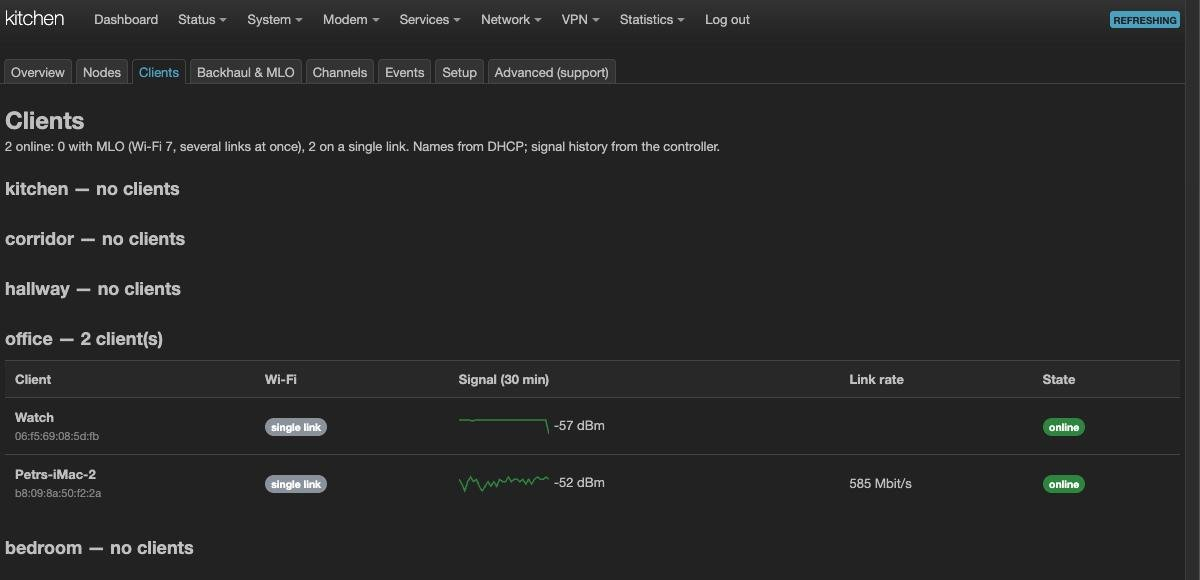
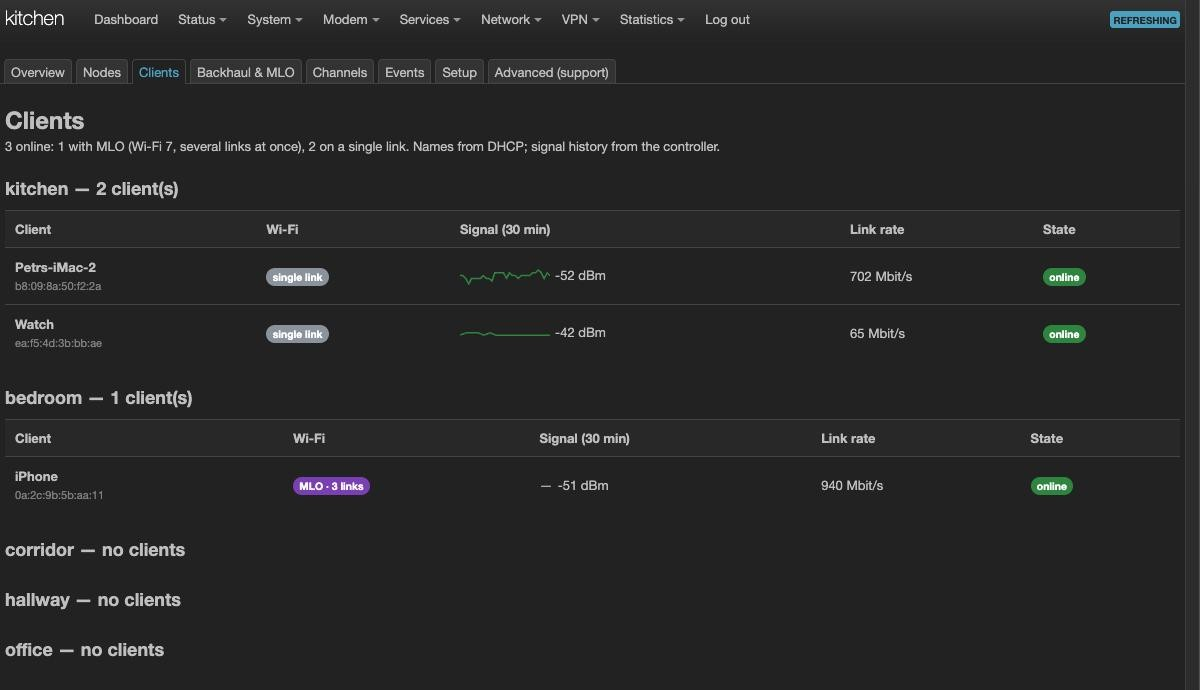
README: getting started as a newcomer did it, on the release images
A fresh install from blank SD cards with v0.1-preview, five boxes, done by
someone following only the README. What did not match:

- the computer goes to the service port from the start (LAN3 on the
  BPI-R4, LAN1 on the Pro 8X); on another LAN port the page is lost
  after the mesh is created, and the box looks dead
- holding a WPS button for 10 s or longer erases the box (the main box
  loses the whole mesh) - now said where the button is pressed
- a box restarts twice while it pairs, not once, on every board; its
  tile looks finished two or three times before it is - a rule for when
  it is done (time and state together) and when to name it
- Pair a new box sits under "Add a box to the mesh..."; the Pro 8X
  shows no lamp; where to stand while pairing (2.4 GHz reach is enough)
- how to check SHA256SUMS, balenaEtcher, the mesh address is only a
  suggestion, what "Taking over an existing mesh?" is for
- LTE/5G failover as an optional step of its own
- known limitation: an MLO client has no signal history in Clients
- Clients screenshot with a multi-link client
- based on the R6 specification, partly implemented; not certified

diff --git a/README.md b/README.md
@@ -2,7 +2,7 @@
 
 **A Wi-Fi 7 mesh built from open-source routers, whose main box can steer which band each backhaul link carries.**
 
-*Implements the Wi-Fi EasyMesh™ R6 specification; not certified by the Wi-Fi Alliance yet. The next releases work
+*Based on the Wi-Fi EasyMesh™ R6 specification (partly implemented); not certified by the Wi-Fi Alliance. The next releases work
 towards conformance with the published EasyMesh test cases, so that it can be taken to certification
 (see [Planned](#planned-for-the-next-releases)).*
 
@@ -10,8 +10,8 @@ towards conformance with the published EasyMesh test cases, so that it can be ta
 > We publish it early for reviewers and testers. It still has bugs - the ones we know are in
 > [Known limitations](#known-limitations), and fixes come with the next releases. Please read that section before you flash anything.
 >
-> **Everything here takes time - give it that time.** Pairing one box takes about 6-10 minutes including one restart
-> (up to 15 on the Pro 8X, which may restart twice); how long exactly depends on the distance, the radio conditions and
+> **Everything here takes time - give it that time.** Pairing one box takes about 6-10 minutes including two restarts
+> (up to 15 on the Pro 8X); how long exactly depends on the distance, the radio conditions and
 > the board, a box boots in about 2 minutes (5 on the Pro 8X), a move is measured for about 3 minutes. While
 > a box joins, its lamp may go dark. **Do not press any button twice:** a second press cancels the pairing. Pairing a
 > five-box mesh takes about three quarters of an hour - enough time for a beer or two. Just don't press any button twice
@@ -22,18 +22,18 @@ towards conformance with the published EasyMesh test cases, so that it can be ta
 ## What it does
 
 - **One button to add a box.** Press *Pair a new box* on the main box (or its WPS button), then hold the WPS button on
-  the new box. The new box joins the mesh, gets its settings and a name, and restarts once by itself while it joins.
+  the new box. The new box joins the mesh, gets its settings and a factory name you can change, and restarts twice by
+  itself while it joins.
 - **Wi-Fi 7 multi-link backhaul.** Each box connects to its parent over two links at once, one on 5 GHz and one on
   6 GHz (MLO), when both come up (see *Known limitations*). The main
   box (the EasyMesh *controller*) can tell each backhaul link which band carries which traffic
   (*TID-to-Link Mapping*, TTLM) based on the shape of the whole mesh, not on one radio's view. In this preview the
   automatic policy runs as a dry run; the mechanism itself is verified on hardware.
-- **Internet from any box.** Plug the internet cable into any box, or use an LTE modem in one of them as a backup
-  (tested: Telit FN990A40, M.2; other modems that OpenWrt supports may work, untested). The
+- **Internet from any box.** Plug the internet cable into any box, and optionally use an LTE/5G modem in one of them
+  for failover (see [Optional: LTE/5G failover](#optional-lte5g-failover)). The
   mesh keeps one gateway address for all clients. When the cable is pulled, or the router in front of the box goes
   dead, clients are back online over LTE in about 10 seconds; when the cable comes back, the mesh returns to it after
-  about half a minute of stable cable, usually without a gap. Set the modem up in LuCI (*Network → Interfaces*, protocol
-  QMI or MBIM) and **restart that box once afterwards** (see *Known limitations*).
+  about half a minute of stable cable, usually without a gap.
 - **It tells you what is going on.** The web interface (LuCI) shows every box, every link and every client in plain words.
   It also points out a radio card that is noisier than the others, so a slow link is not blamed on the mesh.
 
@@ -80,8 +80,12 @@ The board is in the file name: `bananapi_bpi-r4` (4 GB), `bananapi_bpi-r4-8gb`, 
 GitHub - tags, branches, folders - is explained in [What is where](#what-is-where).
 
 ### 1. Prepare the cards
-Download the image for your board from [Releases](https://github.com/woziwrt/openwrt-easymesh-wifi7/releases), check it
-against `SHA256SUMS`, and write it to one SD card per box:
+Download the image for your board and `SHA256SUMS` from [Releases](https://github.com/woziwrt/openwrt-easymesh-wifi7/releases)
+into one folder and check them there: `shasum -a 256 -c SHA256SUMS --ignore-missing` on macOS,
+`sha256sum -c --ignore-missing SHA256SUMS` on Linux (each image must say `OK`); on Windows,
+`certutil -hashfile <image> SHA256` and compare with its line in `SHA256SUMS`. Then write the image to one SD card per
+box. We recommend [balenaEtcher](https://etcher.balena.io/): it writes the `.img.gz` as it is, without unpacking, and
+checks what it wrote.
 
 | Board | Image |
 |---|---|
@@ -99,40 +103,76 @@ it; we have built the mesh with CZ only. Where 6 GHz is not allowed, the backhau
 tested that.
 
 ### 2. The first box becomes the main box (controller)
-Connect a computer to a LAN port of the first box - **not** the service port (**LAN3** on the BPI-R4, **LAN1** on the
-Pro 8X) - and open `http://192.168.1.1`.
+Connect a computer, set to get its address automatically (DHCP), to the **service port** of the first box - **LAN3**
+on the BPI-R4 (4 GB and 8 GB), **LAN1** on the BPI-R4 Pro 8X - and open `http://192.168.1.1`. Use the service port from
+the very start: it answers at `192.168.1.1` on every box, before and after the mesh exists. The other LAN ports join the
+mesh when you create it, and a computer left on one of them may lose the page.
 Go to *Network → EasyMesh → Setup* and click **This is my first box**. Enter the network name, the Wi-Fi password and a
-name for the box. Leave *Mesh addresses* at `10.10.10.1` unless your home network already uses `10.10.10.x`; it must not
-be `192.168.1.x`, which belongs to the service port. That is the only place where you type anything.
-Click **Create the mesh**, then **Reboot now**. After about 2 minutes (5 on the Pro 8X) the main box answers at
-**`http://10.10.10.1`** (or the address you chose), and the page moves there by itself. That LAN port is now part of the
-mesh: your computer gets a `10.10.10.x` address from the main box.
+name for the box. The page suggests `10.10.10.1` for *Mesh addresses*. That is only a suggestion: any private address
+works (we built the last test mesh on `172.16.20.1`), as long as your home network does not use it and it is not
+`192.168.1.x`, which belongs to the service port. That is the only place where you type anything.
+
+Leave *Taking over an existing mesh?* closed for a new mesh. It is only for moving the main-box role to another box in a
+mesh that already runs: the boxes that stay keep the old backhaul key and there is no way to tell them a new one, so the
+new main box has to start with the old key - then they attach to it by themselves. LuCI does not show the key; read it
+on the old main box over SSH:
+
+```sh
+for i in 0 1 2 3 4 5 6 7 8 9 10 11; do case "$(uci -q get ieee1905.@ap[$i].ssid)" in MAP--BH*) uci get ieee1905.@ap[$i].key; break;; esac; done
+```
+
+Then switch the old main box off for good - two main boxes in one mesh do not work. We have not tested a takeover
+with this release.
+Click **Create the mesh**, then **Reboot now**. After about 2 minutes (5 on the Pro 8X) the login page comes back by
+itself at `http://192.168.1.1`. A computer on one of the other LAN ports or on the mesh Wi-Fi reaches the main box at
+**`http://10.10.10.1`** (or the address you chose) and gets a `10.10.10.x` address from it.
 
 **The internet cable** goes into the WAN port of **any** box, the main box or another one. The mesh has internet as soon
 as that box has joined. The main box keeps one socket as a [service port](#the-service-port-a-way-in-when-the-mesh-is-not)
 at `192.168.1.1`.
 
 ### 3. Add the other boxes, one at a time
+**Pair each box where it will stand.** It only has to be within reach of the main box's Wi-Fi - the 2.4 GHz network,
+which reaches farthest, is enough to pair; the fast 5/6 GHz links then attach to the nearest box. For a place far from
+everything, pair the box next to the main box, switch it off, carry it there and switch it on.
+
 **One box at a time, nearest first.** Pair a box only when the one before it is in the picture (*Overview* / *Nodes*).
 Pressing the buttons of several boxes at once gives a bad result. Start with the box closest to the main box and work
 outwards: a far box paired before the boxes between it and the main box gets its settings, but has nothing to attach its
 5/6 GHz links to yet. That is not a fault - it keeps trying and joins by itself once the box in between is in the mesh.
-For a place far from everything, pair the box next to the main box, switch it off, carry it there and switch it on.
 
-Put the new box where it is meant to stand. For now it has to be within Wi-Fi reach of the **main box**: pairing is
-opened there. Power the box on and wait until it has booted (about 2 minutes, 5 on the Pro 8X). Then:
+Power the box on and wait until it has booted (about 2 minutes, 5 on the Pro 8X). Then:
 
-1. **On the main box,** click *Pair a new box* in its *Overview*, or hold its WPS button for **4 to 8 seconds** (until the
+1. **On the main box,** open *Add a box to the mesh…* in its *Overview* and click *Pair a new box*, or hold its WPS button for **4 to 8 seconds** (until the
    lamp blinks slowly) and let go. It keeps pairing open for about seven minutes, so there is time to walk over.
-2. **On the new box,** hold the WPS button for **4 to 8 seconds** and let go.
+2. **On the new box,** hold the WPS button for **4 to 8 seconds** and let go. (On a BPI-R4 Pro 8X no lamp blinks -
+   the press still works: count to six and let go.)
+
+**Never hold a WPS button for 10 seconds or longer** - on the new box or on the main box. Let go after that and the box
+erases its settings (factory reset): a box in the mesh drops out of it, and the main box loses the whole mesh.
 
 A short press does not pair: the main box ignores it, and on a BPI-R4 that is not the main box it restarts it. The other order
 (new box first) works too, but leaves only about three minutes.
 
-The new box joins on its own in about six to ten minutes, with nothing to type in, and restarts once by itself on the
-way (that restart is expected, not a fault; a Pro 8X may restart twice and takes up to 15 minutes). It takes the Wi-Fi settings from the main box and appears in *Overview* and
-*Nodes*. Then add the next one. Wait until it is there before you pair the next box, and do not press its button again
-in the meantime: a second press cancels the pairing.
+The new box joins on its own in about six to ten minutes (up to 15 on a Pro 8X), with nothing to type in. On the way it
+restarts twice by itself and once more restarts its services - that is expected, not a fault. Meanwhile its tile in
+*Overview* comes and goes and changes several times: a MAC address, a `BPI-R4-…` name, `192.168.1.1`, one link, a
+brown dot. It can look finished two or three times before it is. **Do nothing, and do not press any button** - a second
+press cancels the pairing. If the picture looks stuck, reload the page; that never disturbs the pairing.
+
+> **✅ The box is in the mesh when at least 10 minutes (15 on a Pro 8X) have passed since you pressed its button, *and*
+> its tile shows all three at once: a `BPI-R4-` name with six characters, a mesh address (not `192.168.1.1`) and a
+> green dot.** Only now give it a name (the pencil on its tile) and pair the next box.
+
+After you rename a box, its tile may say *waiting for the box* for a minute or two while the name travels there.
+
+### Optional: LTE/5G failover
+If one of your boxes has an LTE/5G modem, the mesh switches to it by itself when the cable internet goes down, and back
+when the cable returns. Put that box where the mobile signal is best (by a window, say) - the mesh carries its internet
+to all the others. Once the box is in the mesh, open its LuCI (at the mesh address on its tile, from a computer on the
+mesh Wi-Fi or a LAN port, or at `192.168.1.1` on its own service port), set the modem up in *Network → Interfaces*
+(protocol QMI or MBIM) and **restart that box once afterwards** (see *Known limitations*). Tested: Telit FN990A40 (M.2);
+other modems that OpenWrt supports may work, untested.
 
 ### 4. Check that it works
 - *Overview* says **"Mesh is working"**, all boxes are online, every link is healthy.
@@ -145,7 +185,7 @@ in the meantime: a second press cancels the pairing.
   on) measures the throughput of a box before and after, about three minutes of traffic on that branch; *Events* says
   which box and why.
 - If a box does not appear after fifteen minutes (or *Overview* says it has not finished), pair it again: *Pair a new
-  box* on the main box, then hold the new box's button 4 to 8 seconds and let go. Not earlier - a second press cancels a
+  box* on the main box (*Add a box to the mesh…*), then hold the new box's button 4 to 8 seconds and let go. Not earlier - a second press cancels a
   pairing that is still running.
 - **Set a root password on every box** (*System → Administration*) once it is in the mesh. The mesh does not need it;
   your network does. Until a box is set up, its Wi-Fi `OpenWrt-MLD` uses the published key `12345678` - so set the box
@@ -192,7 +232,7 @@ box back with *Move…* - the move is measured and undone if it is not faster. T
 - ✅ **Controller and agents based on the EasyMesh R6 specification** (the iopsys stack plus our patches; not certified)
   on OpenWrt 25.12 with the open mt76 driver, on BPI-R4 and BPI-R4 Pro 8X
 - ✅ **Multi-link (MLO) backhaul** on 5 + 6 GHz between every box and its parent, relayed over several hops
-- ✅ **One-button join** (WPS) with one restart of the new box on the way. A whole mesh can be built from blank SD cards.
+- ✅ **One-button join** (WPS) with two restarts of the new box on the way. A whole mesh can be built from blank SD cards.
 - ✅ **Per-station TTLM driven by the controller:** the controller maps traffic of one backhaul link to one band, in
   both directions, and removes the mapping again
 - 🧪 **Automatic TTLM policy:** avoiding a bad link, and alternating bands across a repeater (+70 % across one repeater, 2 hops,
@@ -287,7 +327,7 @@ the deaf-link guard are switched on the boxes with
 `touch /etc/mapc/bh-rescue-live` and `touch /etc/mapc/deaf-guard-live`.
 
 **How long things take** (measured in our lab):
-- a new box joins and carries traffic about six to ten minutes after you pair it, including its one restart (up to
+- a new box joins and carries traffic about six to ten minutes after you pair it, including its two restarts (up to
   15 on the Pro 8X);
 - after a power cut of the whole mesh, clients are back on the internet in about 1.5-2 minutes and every box is back in
   under 3 minutes;
@@ -349,8 +389,8 @@ This is a preview. What is not done yet, or not done well:
   reconnects is planned. (A power cut of the whole mesh does not do this: the boxes start together.)
 - **Not fully understood, with a defence in place:** after pairing from a blank card, a box sometimes cannot authenticate
   over 6 GHz and joins over 5 GHz only; its traffic to the parent can then stall. In our lab this happened towards parents
-  with a damaged 6 GHz antenna connector (see *Check the antenna connectors*). The box restarts once by itself during
-  pairing, which clears it in our tests, and a guard restarts a box whose uplink stalls twice within half an hour.
+  with a damaged 6 GHz antenna connector (see *Check the antenna connectors*). The last of its restarts during
+  pairing clears it in our tests, and a guard restarts a box whose uplink stalls twice within half an hour.
 - **A client that switches bands on the same box can stall for up to about a minute.** A laptop that moves from one
   band to another of the same box (for example from 5 to 2.4 GHz) can stay connected but pass no data until the box drops
   it as inactive; it then reconnects by itself. When the laptop's old entry on the other band is removed, hostapd
@@ -362,18 +402,21 @@ This is a preview. What is not done yet, or not done well:
   internet, but *Clients* does not list them until they reconnect:
   the box does not report them again when its own link comes back. Meanwhile the main box cannot steer those clients
   either. A fix is planned for the next release.
+- **A multi-link (MLO) client has no signal history in *Clients*.** Its current signal, its links and its link rate are
+  shown, but the 30-minute graph stays empty: the main box records its signal as zero. A fix is planned for the next
+  release.
 - **A box that lost its parent can pick a weak 6 GHz link.** It reconnects to what it hears, and wpa_supplicant may
   prefer a 6 GHz link at -80 dBm to a better 5 GHz one (once in our lab: 0/4 Mbit/s for 15 minutes). If its path stays
   under about 100 Mbit/s, the rescue moves it; a faster choice of the band is planned.
 - **The box restarts where a Wi-Fi reload would seem enough** - while it pairs, after its Wi-Fi settings change, and
   when its radios need a clean start. That is deliberate. On the multi-link (MLO) setup of the MT7996 (BE14) card, a
   Wi-Fi reload has been unreliable in our tests: the radios sometimes did not come back, or a link came back without
-  traffic. A restart costs one or two minutes (five on a Pro 8X) but always ends in a known state. The one restart while
+  traffic. A restart costs one or two minutes (five on a Pro 8X) but always ends in a known state. The last restart while
   a box pairs also clears a case where its 6 GHz link would otherwise stall. If you want to remove a restart, measure the
   reload on several boxes and over several days first.
 - **On the BPI-R4 Pro 8X the lamps do not show pairing.** Its board wires the LEDs differently, so holding its WPS
-  button gives no blink. The press still works - just wait. A Pro 8X can also restart twice while it joins instead of
-  once (it boots slowly, about five minutes), so give it 10-15 minutes.
+  button gives no blink. The press still works - just wait. A Pro 8X boots slowly (about five minutes), so give its
+  pairing 10-15 minutes.
 - **Sometimes the Wi-Fi card does not start.** Now and then the MT7996 firmware fails to load at boot
   (`Failed to start patch` / `probe failed -11` in the kernel log) and the box runs without Wi-Fi. A restart does not
   help: **switch the power off for 30 seconds.** The Pro 8X cannot reset its Wi-Fi card from software. You notice it

diff --git a/docs/TECHNICAL.md b/docs/TECHNICAL.md
@@ -84,7 +84,7 @@ Everything here can be checked with two boxes, `tcpdump` and Wireshark. You do n
 
 | Service | What it does |
 |---|---|
-| `easymesh-wps-join` / setup | one-button join: takes the backhaul credentials over WPS, brings up the MLO backhaul station, names the box, and restarts it once when the join has settled (a join without that restart could leave a backhaul that stalls) |
+| `easymesh-wps-join` / setup | one-button join: takes the backhaul credentials over WPS, brings up the MLO backhaul station, names the box, restarts it after taking the credentials, and once more when the join has settled (a join without that last restart could leave a backhaul that stalls) |
 | `mesh-gwd` | one virtual gateway address for all clients; any box with a cable (*primary*) or LTE (*backup*) can hold it; releases it at once on carrier loss (client outage ~11 s) |
 | `beacon-kick`, link watchdogs | re-arm a backhaul BSS that stopped beaconing after a reconfiguration; record the per-link beacon share |
 | `easymesh-card-check` | compares each radio's noise (ANPI, from the Radio Metrics TLV in the AP Metrics Response) with the other boxes on the same channel, over one hour; ≥ 6 dB above = suspect card |
